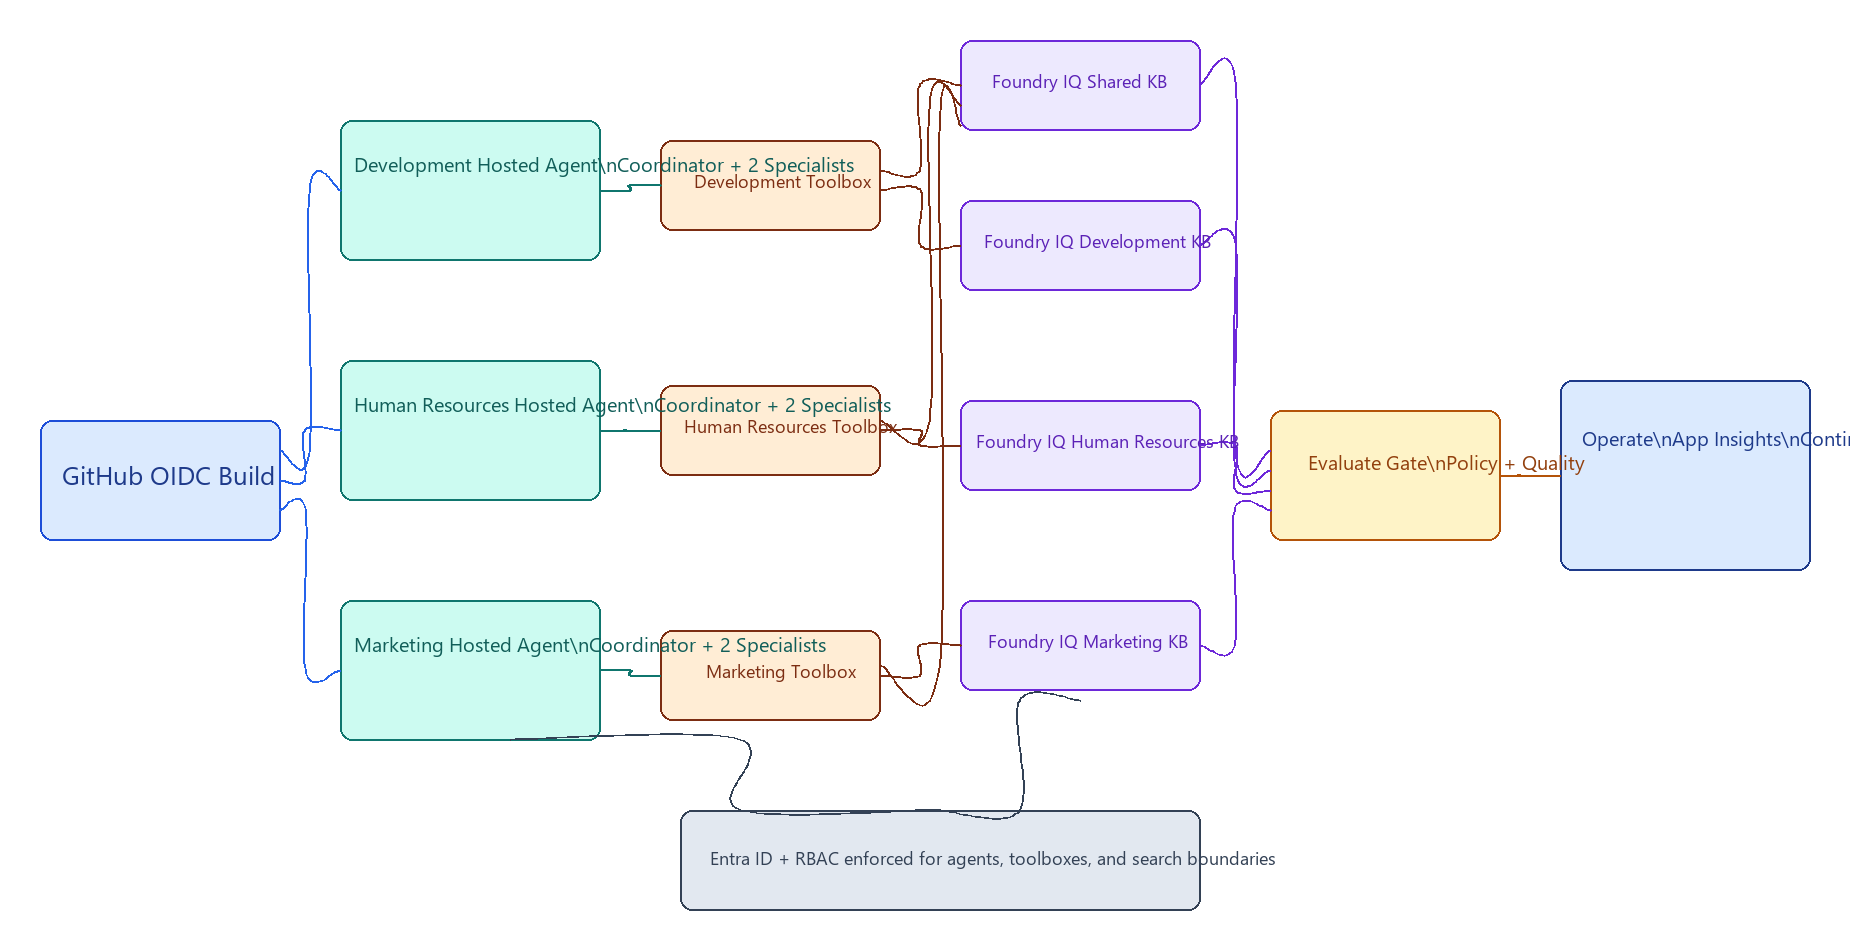
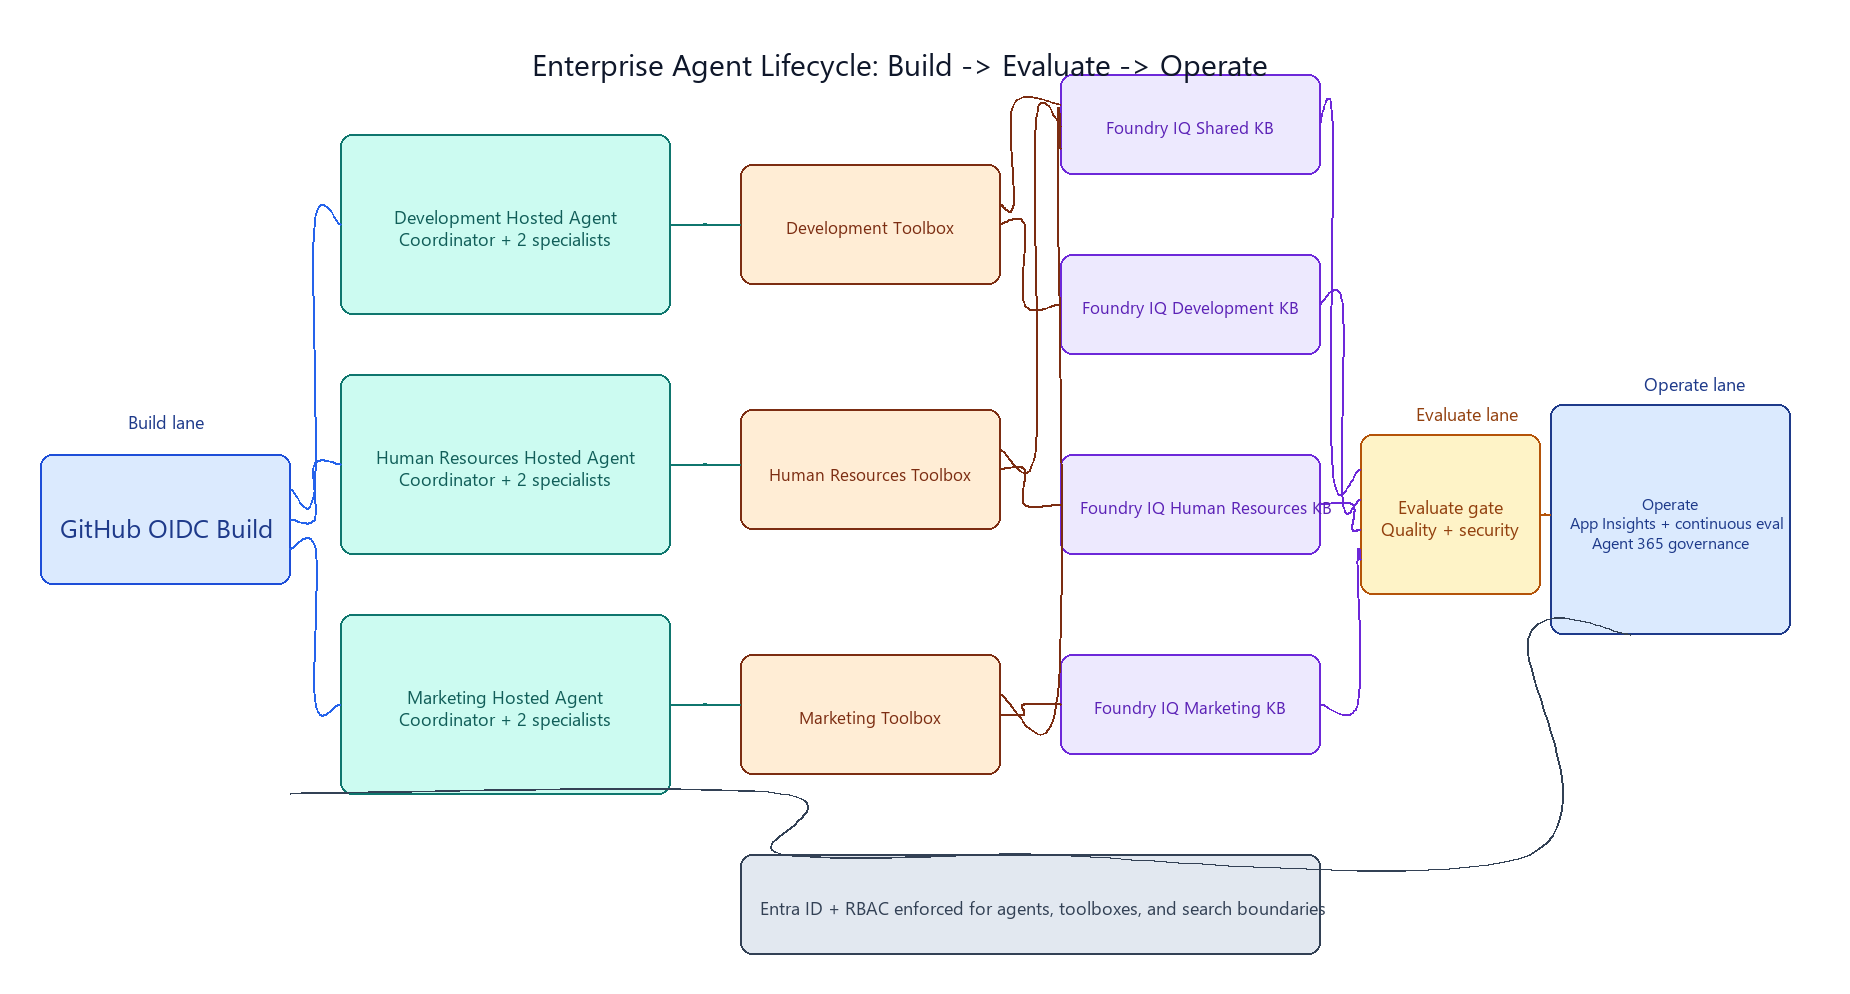
Fix Task 8 architecture visual quality and multiline rendering

diff --git a/tests/test_documentation.py b/tests/test_documentation.py
@@ -1,5 +1,6 @@
 from __future__ import annotations
 
+import importlib.util
 import json
 import math
 from pathlib import Path
@@ -27,6 +28,18 @@ def _load_architecture() -> dict:
     source = _architecture_source_path()
     assert source.exists(), f"Missing architecture source: {source}"
     return json.loads(source.read_text(encoding="utf-8"))
+
+
+def _elements_by_id(data: dict) -> dict[str, dict]:
+    elements = data.get("elements")
+    if not isinstance(elements, list):
+        return {}
+    by_id: dict[str, dict] = {}
+    for element in elements:
+        element_id = element.get("id")
+        if isinstance(element_id, str):
+            by_id[element_id] = element
+    return by_id
 
 
 def _element_points(element: dict) -> list[tuple[float, float]]:
@@ -132,6 +145,103 @@ def test_architecture_layout_contract() -> None:
                 )
 
 
+def test_architecture_text_contract() -> None:
+    data = _load_architecture()
+    by_id = _elements_by_id(data)
+    elements = data["elements"]
+    text_elements = [element for element in elements if element.get("type") == "text"]
+    assert text_elements, "Diagram must include text elements"
+
+    for element in text_elements:
+        text = element.get("text")
+        if not isinstance(text, str):
+            continue
+        assert "\\n" not in text, "Use real newline escapes (\\n), not literal backslash-n"
+        font_size = element.get("fontSize")
+        assert isinstance(font_size, int)
+        assert font_size >= 16, "All diagram text must be at least 16px"
+
+    title = by_id.get("t-title")
+    assert isinstance(title, dict), "Diagram title text is required"
+    assert title.get("text") == "Enterprise Agent Lifecycle: Build -> Evaluate -> Operate"
+    assert int(title.get("fontSize", 0)) >= 24
+
+
+def test_architecture_text_within_boxes_contract() -> None:
+    data = _load_architecture()
+    by_id = _elements_by_id(data)
+
+    text_to_rect = {
+        "t-dev-agent": "r-dev-agent",
+        "t-hr-agent": "r-hr-agent",
+        "t-mkt-agent": "r-mkt-agent",
+        "t-dev-toolbox": "r-dev-toolbox",
+        "t-hr-toolbox": "r-hr-toolbox",
+        "t-mkt-toolbox": "r-mkt-toolbox",
+        "t-kb-shared": "r-kb-shared",
+        "t-kb-dev": "r-kb-dev",
+        "t-kb-hr": "r-kb-hr",
+        "t-kb-mkt": "r-kb-mkt",
+        "t-evaluate": "r-evaluate",
+        "t-operate": "r-operate",
+    }
+
+    for text_id, rect_id in text_to_rect.items():
+        text_el = by_id[text_id]
+        rect_el = by_id[rect_id]
+
+        tx = float(text_el["x"])
+        ty = float(text_el["y"])
+        tw = float(text_el["width"])
+        th = float(text_el["height"])
+
+        rx = float(rect_el["x"])
+        ry = float(rect_el["y"])
+        rw = float(rect_el["width"])
+        rh = float(rect_el["height"])
+
+        assert tx >= rx + 20, f"{text_id} must keep >=20px left padding"
+        assert ty >= ry + 20, f"{text_id} must keep >=20px top padding"
+        assert tx + tw <= rx + rw - 20, f"{text_id} must keep >=20px right padding"
+        assert ty + th <= ry + rh - 20, f"{text_id} must keep >=20px bottom padding"
+
+
+def test_renderer_multiline_layout_contract() -> None:
+    repo_root = _repo_root()
+    script_path = repo_root.joinpath("scripts", "render-excalidraw.py")
+    assert script_path.exists(), f"Missing renderer script: {script_path}"
+
+    spec = importlib.util.spec_from_file_location("render_excalidraw", script_path)
+    assert spec is not None
+    assert spec.loader is not None
+    module = importlib.util.module_from_spec(spec)
+    spec.loader.exec_module(module)
+
+    assert hasattr(module, "_layout_multiline_text"), "Renderer must expose multiline layout helper"
+
+    font = module._load_font(18)
+    lines, starts, total_height = module._layout_multiline_text(
+        draw=None,
+        text="Line A\nLine B\nLine C",
+        font=font,
+        box_x=100.0,
+        box_y=200.0,
+        box_w=240.0,
+        box_h=140.0,
+        spacing=4,
+    )
+
+    assert lines == ["Line A", "Line B", "Line C"]
+    assert len(starts) == 3
+    assert starts[0][0] >= 100.0
+    assert starts[1][0] >= 100.0
+    assert starts[2][0] >= 100.0
+    assert starts[0][0] <= 340.0
+    assert starts[1][0] <= 340.0
+    assert starts[2][0] <= 340.0
+    assert total_height <= 140.0
+
+
 def test_architecture_png_contract() -> None:
     png_path = _architecture_png_path()
     assert png_path.exists(), f"Missing rendered PNG: {png_path}"
@@ -140,8 +250,8 @@ def test_architecture_png_contract() -> None:
     with Image.open(png_path) as image:
         rgba = image.convert("RGBA")
         width, height = rgba.size
-        assert width >= 1400
-        assert height >= 800
+        assert width >= 1850
+        assert height >= 950
 
         alpha = rgba.getchannel("A")
         alpha_extrema = alpha.getextrema()

diff --git a/scripts/render-excalidraw.py b/scripts/render-excalidraw.py
@@ -166,6 +166,59 @@ def _draw_arrowhead(
     draw.polygon([end, p2, p3], fill=color)
 
 
+def _line_metrics(font: ImageFont.ImageFont, line: str) -> tuple[float, float]:
+    sample = line if line else " "
+    if hasattr(font, "getbbox"):
+        left, top, right, bottom = font.getbbox(sample)
+        width = float(max(0, right - left))
+        height = float(max(1, bottom - top))
+    else:
+        width, height = font.getsize(sample)
+        width = float(width)
+        height = float(max(1, height))
+    if not line:
+        return (0.0, height)
+    return (width, height)
+
+
+def _layout_multiline_text(
+    draw: ImageDraw.ImageDraw | None,
+    text: str,
+    font: ImageFont.ImageFont,
+    box_x: float,
+    box_y: float,
+    box_w: float,
+    box_h: float,
+    spacing: int,
+) -> tuple[list[str], list[tuple[float, float]], float]:
+    del draw  # The layout uses font metrics only and is deterministic.
+    normalized = text.replace("\r\n", "\n").replace("\r", "\n")
+    lines = normalized.split("\n") if normalized else [""]
+
+    widths: list[float] = []
+    heights: list[float] = []
+    for line in lines:
+        width, height = _line_metrics(font, line)
+        widths.append(width)
+        heights.append(height)
+
+    if not heights:
+        return ([], [], 0.0)
+
+    total_height = sum(heights) + spacing * max(0, len(lines) - 1)
+    start_y = box_y + max(0.0, (box_h - total_height) / 2.0)
+
+    starts: list[tuple[float, float]] = []
+    cursor_y = start_y
+    for index, _line in enumerate(lines):
+        line_w = widths[index]
+        line_h = heights[index]
+        line_x = box_x + max(0.0, (box_w - line_w) / 2.0)
+        starts.append((line_x, cursor_y))
+        cursor_y += line_h + spacing
+    return (lines, starts, total_height)
+
+
 def _draw_rectangles(
     draw: ImageDraw.ImageDraw,
     elements: Iterable[dict],
@@ -222,16 +275,24 @@ def _draw_text(
             continue
         x = float(element.get("x", 0.0)) + shift_x
         y = float(element.get("y", 0.0)) + shift_y
+        width = float(element.get("width", 0.0))
+        height = float(element.get("height", 0.0))
         font_size = int(element.get("fontSize", 20))
         font = _load_font(font_size)
-        draw.multiline_text(
-            (x, y),
-            text,
-            fill=_stroke_color(element),
+        spacing = max(4, int(round(font_size * 0.2)))
+        lines, starts, _ = _layout_multiline_text(
+            draw=draw,
+            text=text,
             font=font,
-            spacing=4,
-            align="left",
+            box_x=x,
+            box_y=y,
+            box_w=width,
+            box_h=height,
+            spacing=spacing,
         )
+        color = _stroke_color(element)
+        for line, (line_x, line_y) in zip(lines, starts):
+            draw.text((line_x, line_y), line, fill=color, font=font)
 
 
 def render_excalidraw(
